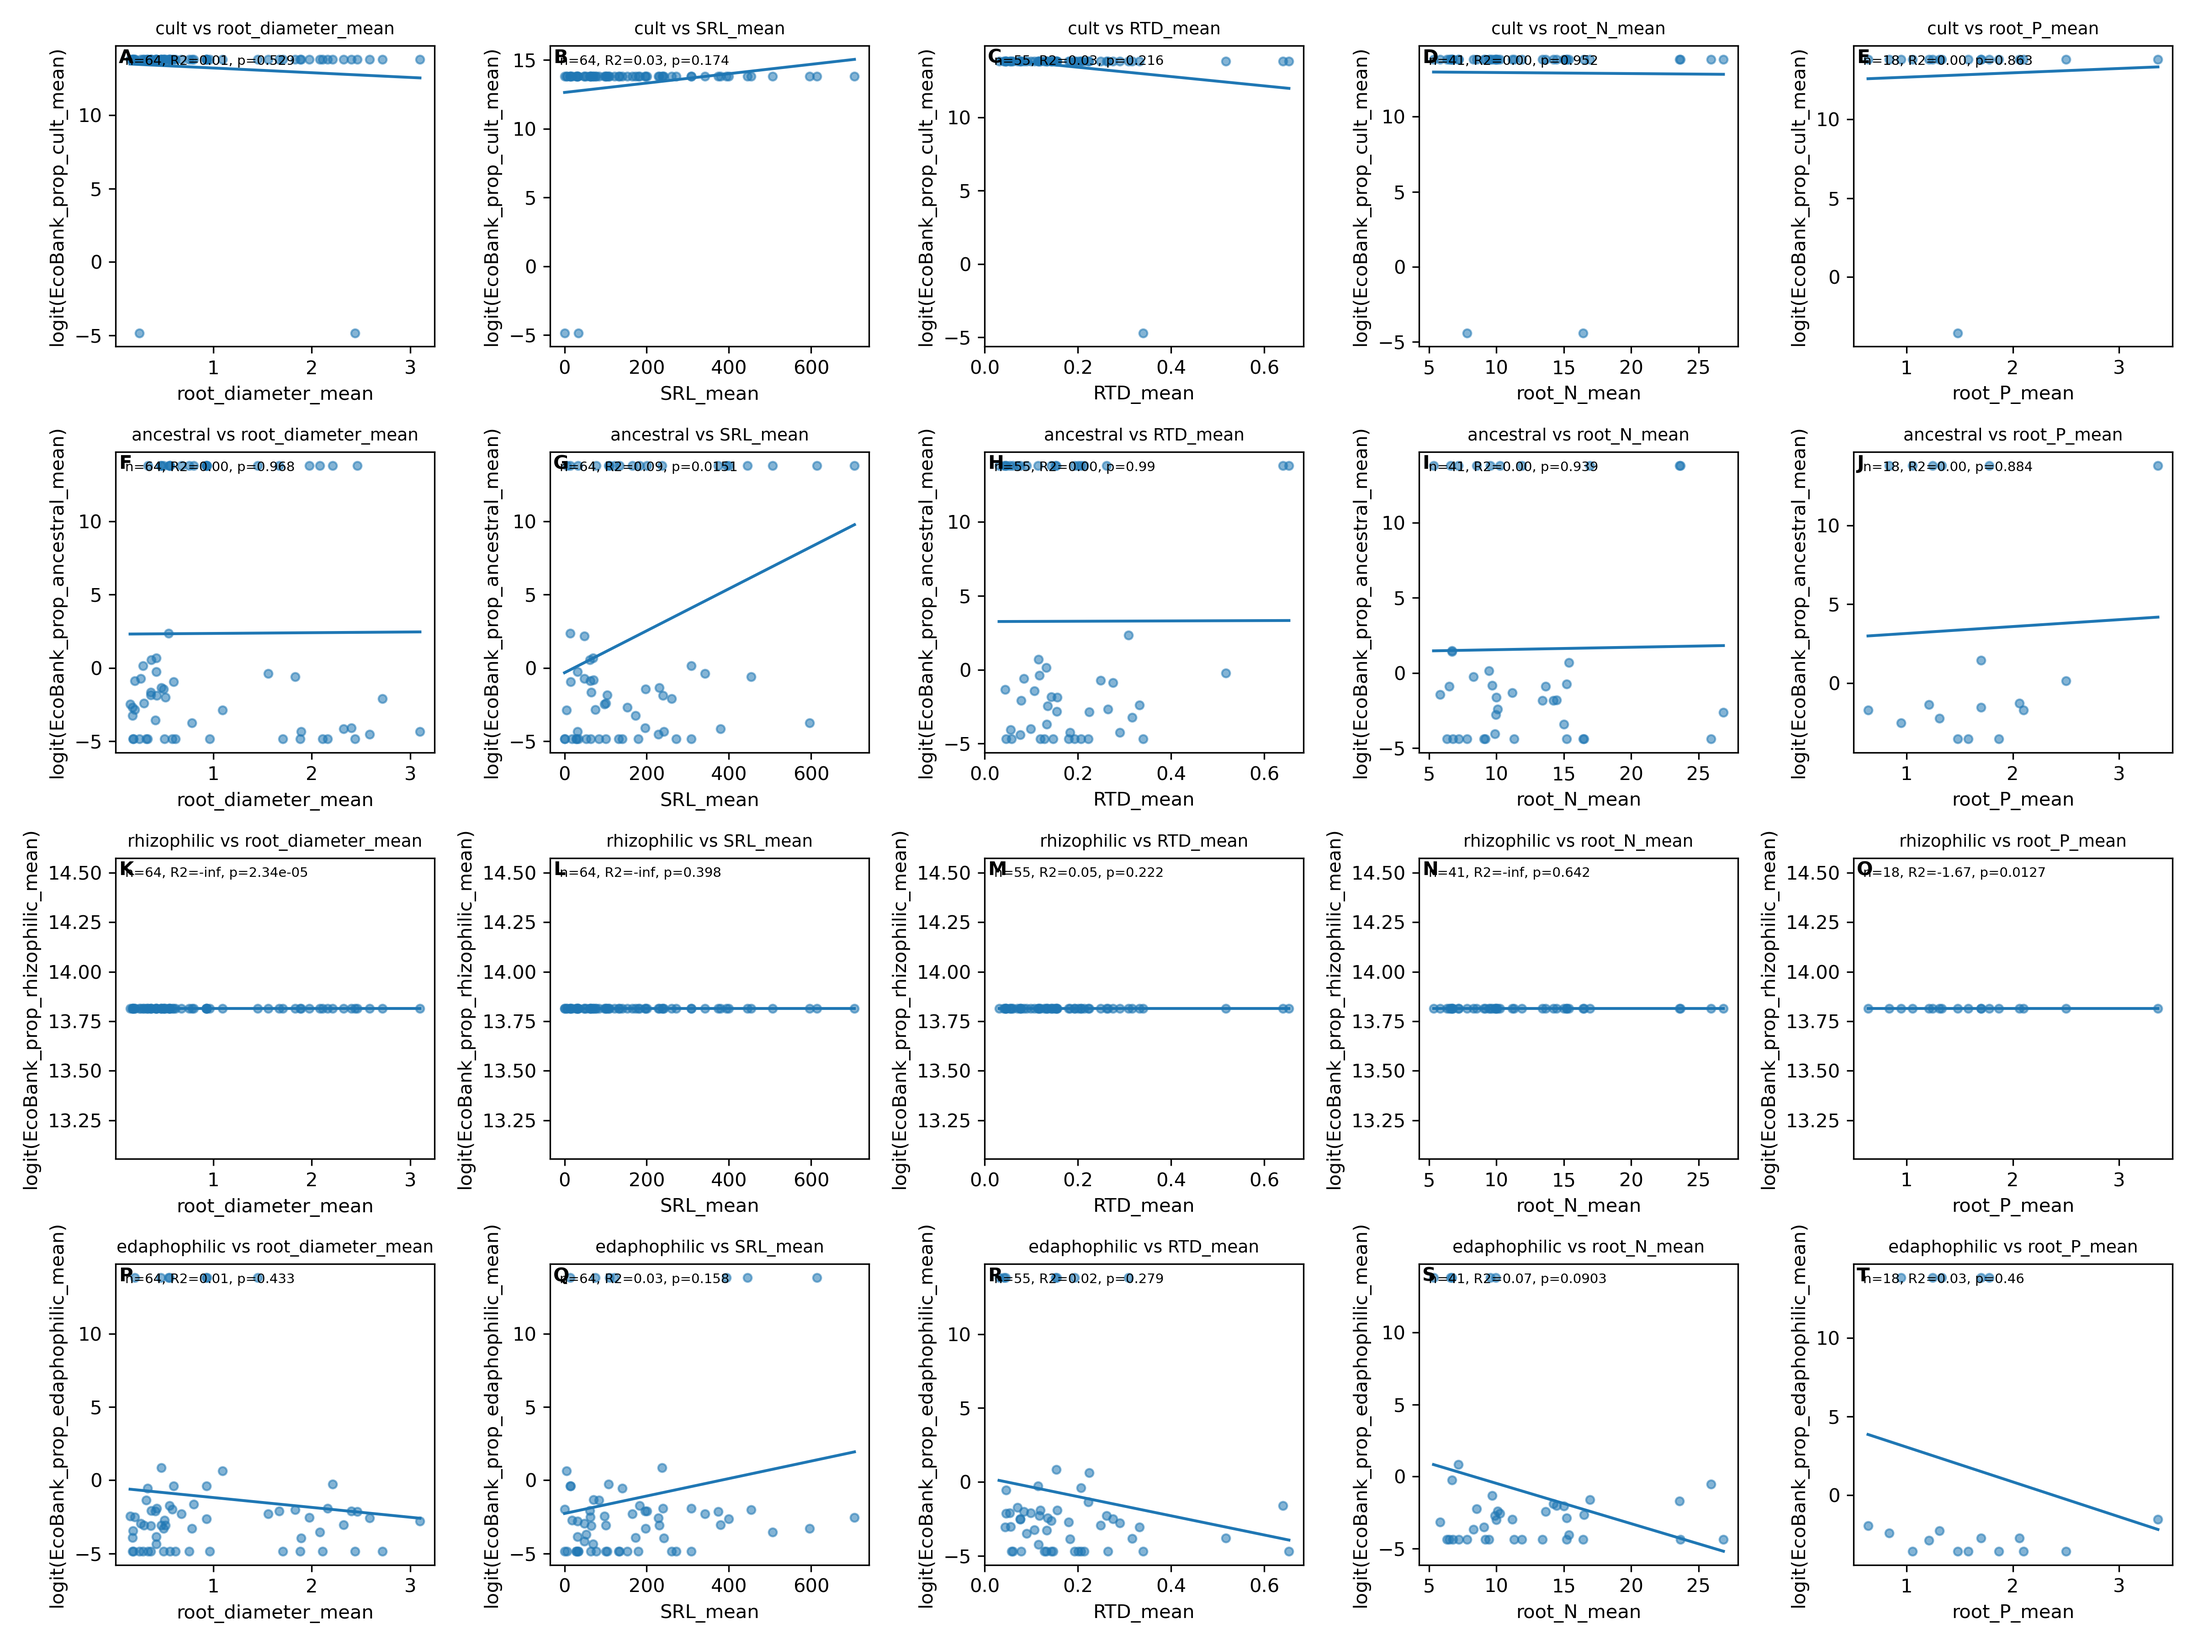
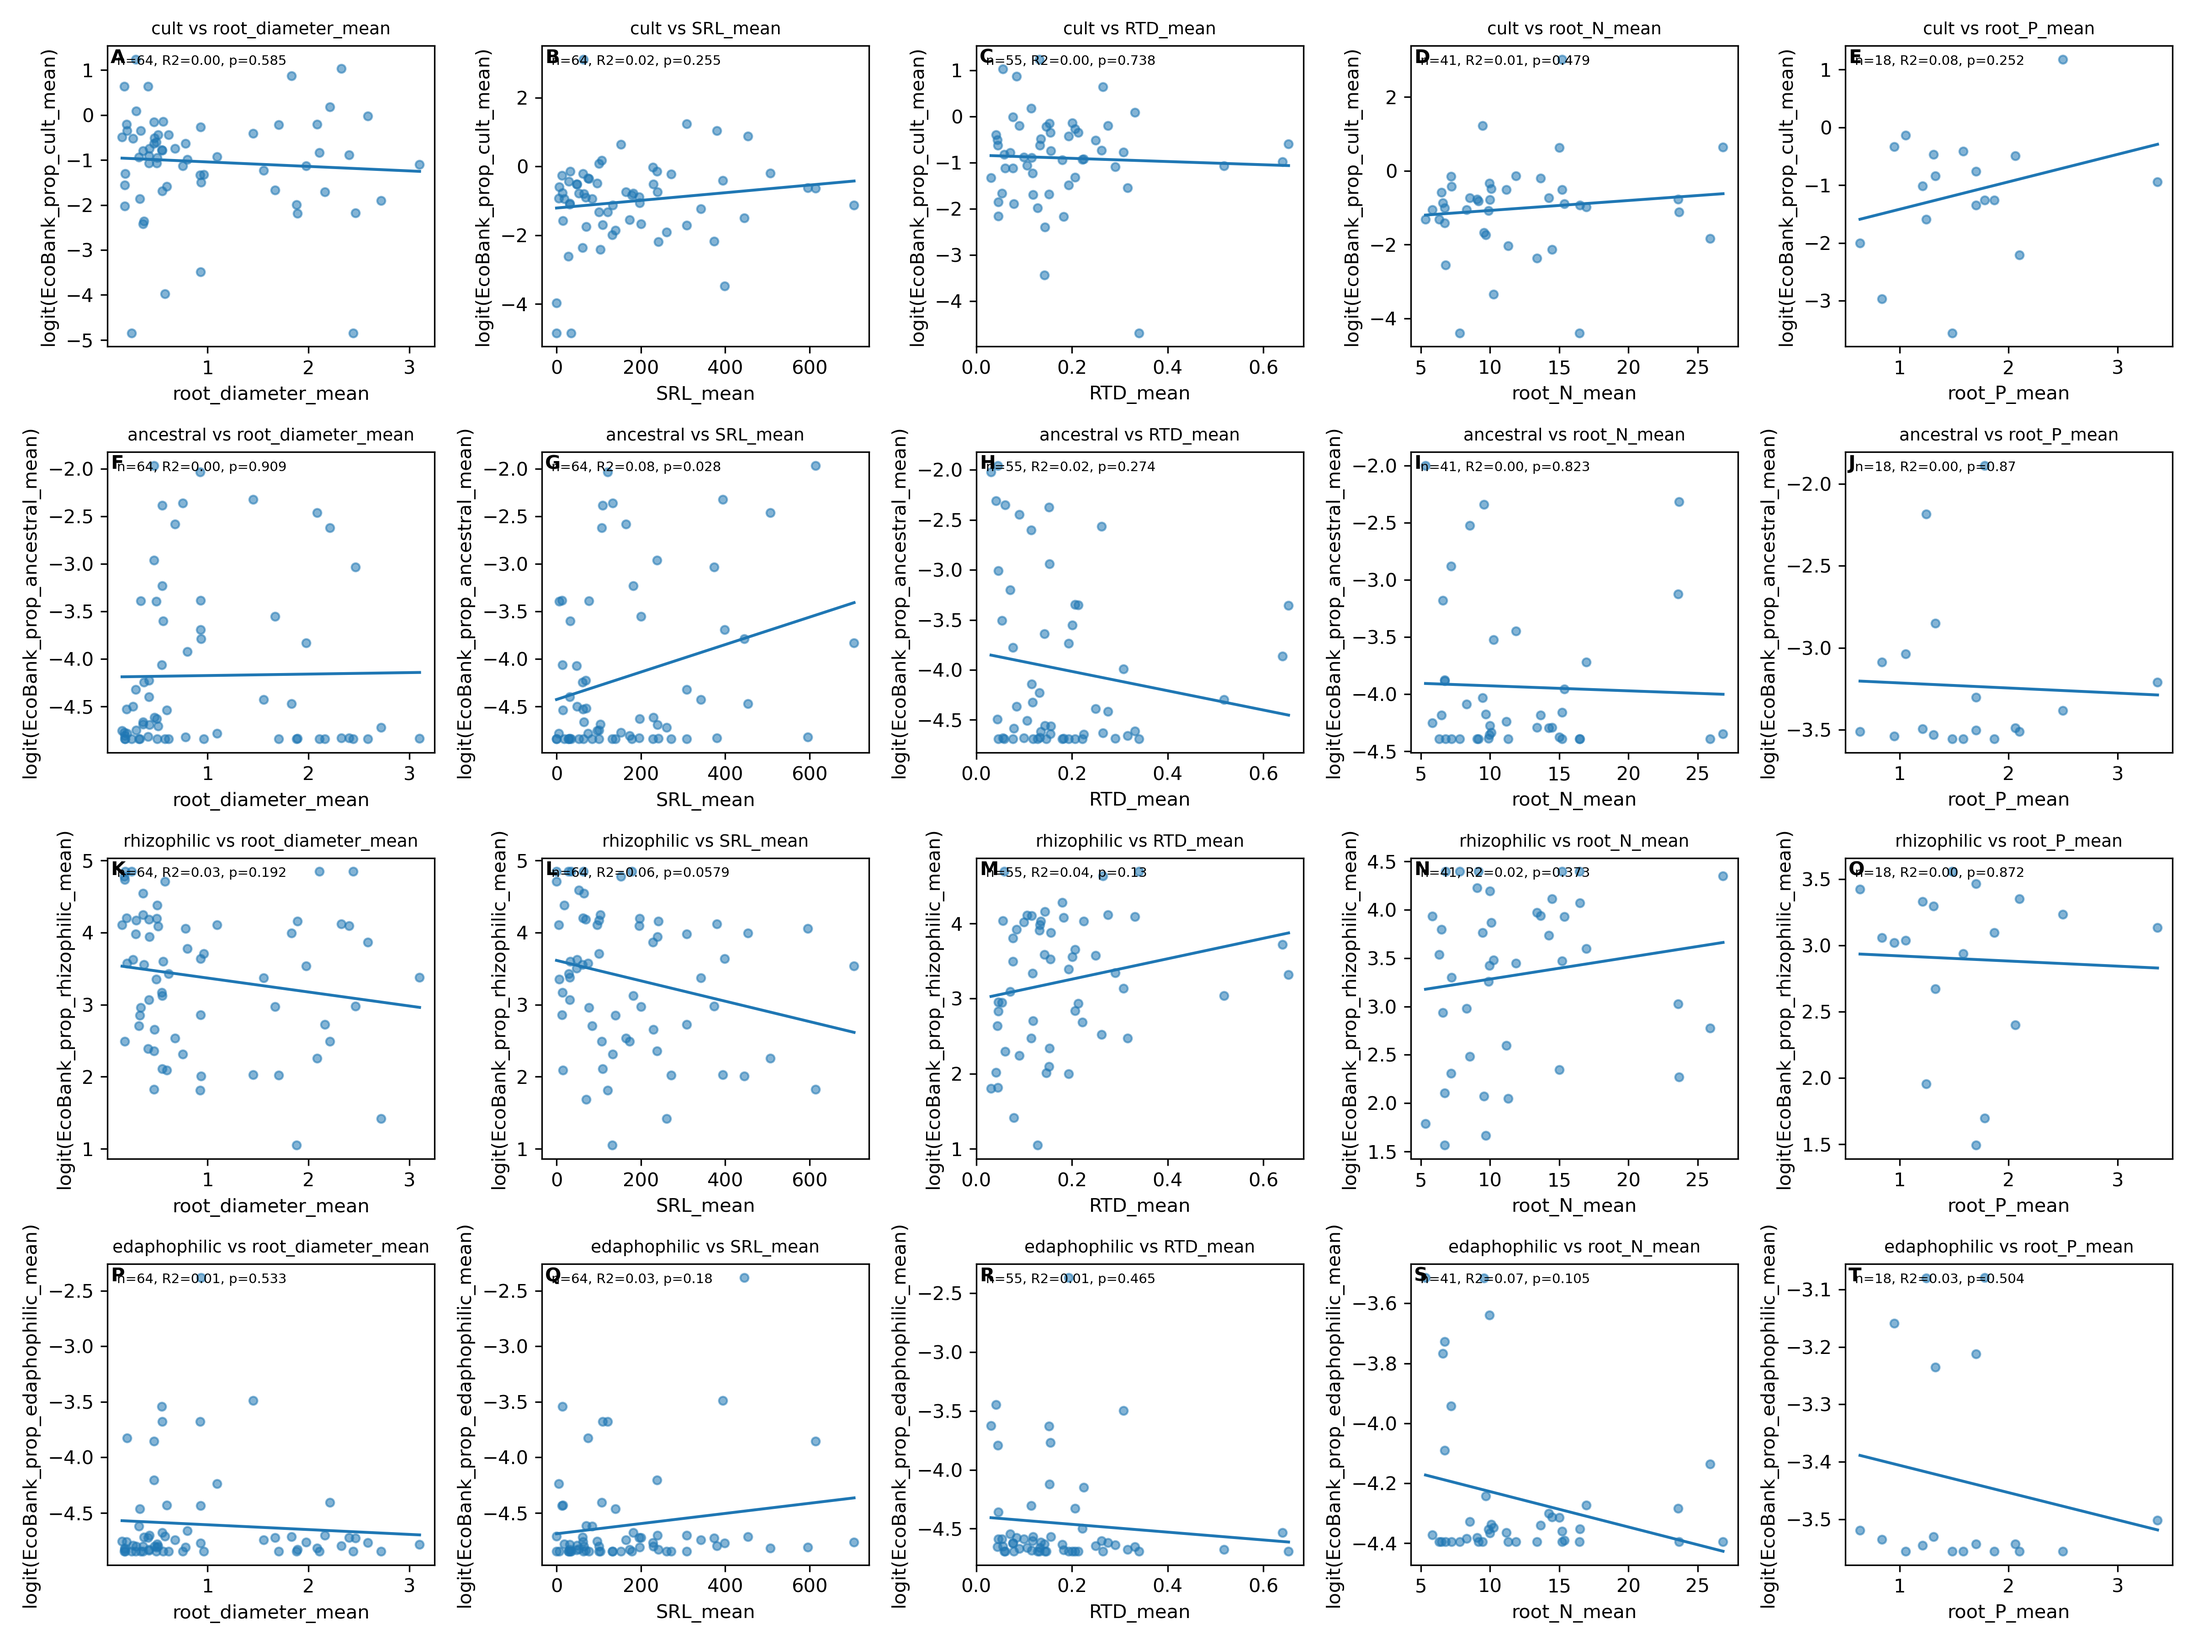
fix guild logit scaling for percent-based proportions

diff --git a/src/pal/fred_amf_figures.py b/src/pal/fred_amf_figures.py
@@ -172,6 +172,15 @@ def _scatter_with_fit(ax, d: pd.DataFrame, x: str, y: str, label: str) -> tuple[
     return len(dd), model.rsquared, float(model.pvalues[x])
 
 
+def _to_unit_proportion(s: pd.Series) -> pd.Series:
+    x = pd.to_numeric(s, errors="coerce")
+    if x.dropna().empty:
+        return x
+    if x.max() > 1.0:
+        x = x / 100.0
+    return x
+
+
 def fig5_richness_vs_traits(master: pd.DataFrame, out_base: Path) -> None:
     traits = ["root_diameter_mean", "SRL_mean", "RTD_mean", "root_N_mean", "root_P_mean"]
     fig, axs = plt.subplots(2, 3, figsize=(14, 8))
@@ -214,7 +223,8 @@ def fig6_guilds_vs_traits(master: pd.DataFrame, out_base: Path) -> None:
                 ax.set_axis_off()
                 continue
             n = len(dd)
-            p_adj = (dd[g] * (n - 1) + 0.5) / n
+            p = _to_unit_proportion(dd[g])
+            p_adj = (p * (n - 1) + 0.5) / n
             dd["logit"] = np.log(p_adj.clip(1e-6, 1 - 1e-6) / (1 - p_adj.clip(1e-6, 1 - 1e-6)))
             nn, r2, p = _scatter_with_fit(ax, dd.rename(columns={"logit": g + "_logit"}), t, g + "_logit", "")
             ax.set_title(f"{g.split('_')[-2]} vs {t}", fontsize=9)
@@ -238,7 +248,8 @@ def fig7_woody_sensitivity(master: pd.DataFrame, out_base: Path) -> None:
                 data = dd[[t, col]].dropna().copy()
                 if resp.endswith("prop_rhizophilic_mean") and len(data):
                     n = len(data)
-                    p_adj = (data[col] * (n - 1) + 0.5) / n
+                    p = _to_unit_proportion(data[col])
+                    p_adj = (p * (n - 1) + 0.5) / n
                     data[col] = np.log(p_adj.clip(1e-6, 1 - 1e-6) / (1 - p_adj.clip(1e-6, 1 - 1e-6)))
                 _scatter_with_fit(ax, data, t, col, g)
             short = "AMF richness" if "richness" in resp else "rhizophilic proportion"
